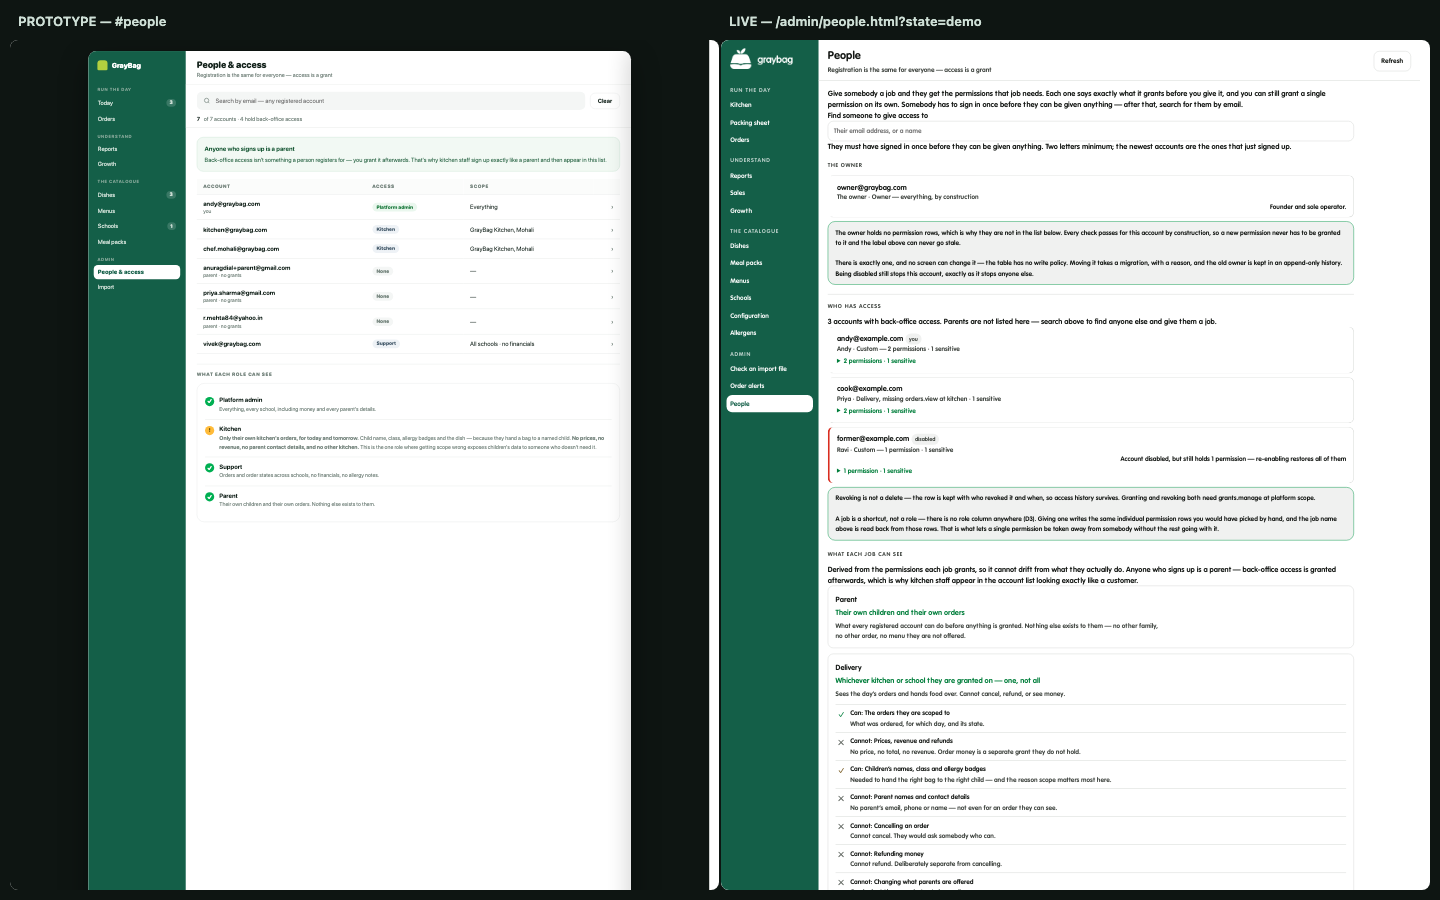
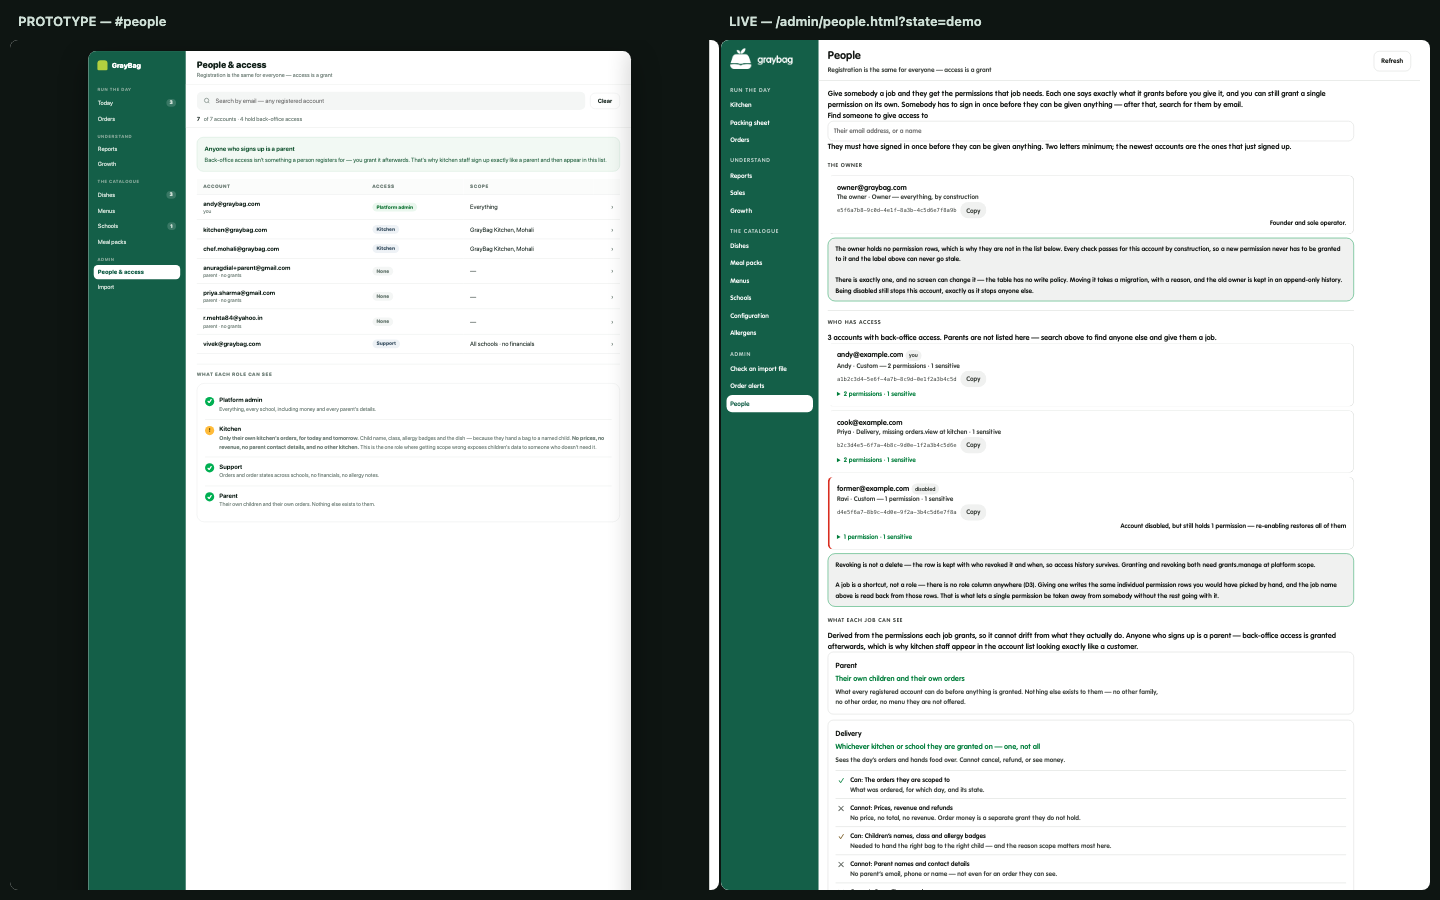
E10-73: the account id on /admin/people, with one-click copy
Andy repeats a SQL-editor lookup every time a parent emails him,
because PostHog identifies people by user id and deliberately never
receives an email. That id is the join between "a parent emailed me"
and "here is what they did".

The part that mattered was where it goes. /admin/people lists accounts
that hold a grant, and a parent holds none — so the id on those rows
alone would never once have answered the question that prompted this.
searchAccounts reads every app_user, which is the path to a parent, and
it renders through the same accountRow; the copy handler is bound to
the search container as well as the list.

Shown in full, monospace, muted. A shortened id beside a button that
copies the whole thing is a trap the first time somebody reads one off
the screen instead. A clipboard refusal selects the id and says so
rather than failing silently — a copy button that quietly does nothing
means pasting the previous clipboard contents into PostHog and reading
the wrong person's session.

No new disclosure: app_user.id is the pseudonymous identifier analytics
is allowed to hold precisely because it carries no name, no email and
no child, and it now sits next to an email this screen already showed.
Nothing else was added.

The fixture's u-1 ids became real-shaped uuids. A 36-character value is
a different layout problem from a three-character stub, and the a11y
gate and the parity shot both walk that data.

And the coupling this rests on is now tested. app_user.id equals
[…]

Changed region(s): [[0.5625, 0.2178, 0.9375, 0.9956]]

diff --git a/planning/backlog.html b/planning/backlog.html
@@ -4347,13 +4347,13 @@
         </div>
         <div class="meter-wrap">
           <div class="meter"><span style="width:0%"></span></div>
-          <span class="meter-num">0/63</span>
+          <span class="meter-num">0/64</span>
         </div>
       </header>
       <p class="summary">The backend Andy needs to run the business — school onboarding, menu management, config, users, money.</p>
       <p class="deps">Depends on <code>E02</code> <code>E04</code> <code>E07</code></p>
       <details>
-        <summary>Context &amp; 63 tasks</summary>
+        <summary>Context &amp; 64 tasks</summary>
         <div class="context"></div>
         <ul class="tasks">
       <li class="task" data-id="E10-01" data-seed="1" data-risk="" data-owner="build" data-mvp="1" data-seed="1">
@@ -4859,6 +4859,14 @@
         
         <span class="badge r-later">later</span>
         <span class="ttext"><strong><code>/admin/people</code> rows open a drawer, as the prototype has them.</strong> <code>E10-71</code> used a <code>&lt;details&gt;</code> because the timing was wrong for anything else — the drawer means moving the revoke buttons and the job form into it, re-binding their handlers and re-rendering after every write, on the one screen where a bug is an authorisation bug. Worth doing when there is not a rollout on</span>
+      </li>
+      <li class="task" data-id="E10-73" data-seed="1" data-risk="" data-owner="build" data-mvp="0" data-seed="1">
+        <button class="box" role="checkbox" aria-checked="false" aria-label="Toggle E10-73"></button>
+        <code class="tid">E10-73</code>
+        
+        
+        <span class="badge r-later">later</span>
+        <span class="ttext"><strong>The account id on <code>/admin/people</code>, with one-click copy.</strong> Andy: *&quot;to see what a specific parent did in PostHog, I have to open the Supabase SQL editor and run <code>select id from app_user where email = …</code>, because PostHog identifies people by user id and deliberately never receives an email. That id is the join between &#39;a parent emailed me&#39; and &#39;here&#39;s what they actually did&#39;, and it&#39;s the step I repeat every time.&quot;* <strong>The part that mattered was where it goes.</strong> <code>/admin/people</code> lists accounts that hold a <strong>grant</strong>, and a parent holds none — so putting the id on those rows alone would never once have answered the question that prompted this. <code>searchAccounts</code> reads every <code>app_user</code>, which is the path to a parent, and it renders through the same <code>accountRow</code>, so one change covers both; the copy handler is bound to the search container as well as the list. Shown in <strong>full</strong>, monospace, muted: a shortened id beside a button that copies the whole thing is a trap the first time somebody reads one off the screen. A clipboard refusal <strong>selects the id and says so</strong> rather than failing silently — a copy button that quietly does nothing means pasting the previous clipboard contents into PostHog and reading the wrong person&#39;s session. <strong>No new disclosure</strong>: <code>app_user.id</code> is the pseudonymous identifier analytics is allowed to hold precisely because it carries no name, no email and no child, and it now sits beside an email this screen already showed. Nothing else was added — no child, no order, no financial detail. The fixture&#39;s <code>u-1</code> ids became real-shaped uuids, because a 36-character value is a different layout problem from a three-character stub and the a11y gate and parity shot both walk that data. <strong>The coupling is now tested</strong>: <code>app_user.id</code> equals <code>auth.users.id</code> by construction (<code>0001</code>&#39;s FK, <code>0018</code>&#39;s trigger; 18 of 18 on production), and the mobile app identifies to PostHog with that same value — if <code>app_user</code> ever grows its own uuid the screen would keep showing an id that matches nothing, and <code>scripts/test/account-id-is-the-analytics-id.test.mjs</code> fails instead</span>
       </li></ul>
       </details>
     </article>

diff --git a/apps/web/src/lib/admin/people-fixture.ts b/apps/web/src/lib/admin/people-fixture.ts
@@ -9,6 +9,15 @@
  */
 import type { api } from '@graybag/shared';
 
+/*
+ * The ids are **real-shaped uuids**, not `u-1` — `E10-73`.
+ *
+ * `app_user.id` is now rendered on this screen, and a 36-character uuid is a different layout
+ * problem from a three-character stub: it wraps, it competes with the email, and a fixture that
+ * hides that is a fixture the screen gets designed against. Same rule this file already follows
+ * about demonstrating states production can actually produce. The a11y gate and the parity shot
+ * both walk this data.
+ */
 export const PEOPLE_FIXTURE: {
   accounts: api.AccessAccount[];
   permissions: api.PermissionInfo[];
@@ -22,7 +31,7 @@ export const PEOPLE_FIXTURE: {
 } = {
   accounts: [
     {
-      userId: 'u-1', email: 'andy@example.com', displayName: 'Andy', isDisabled: false,
+      userId: 'a1b2c3d4-5e6f-4a7b-8c9d-0e1f2a3b4c5d', email: 'andy@example.com', displayName: 'Andy', isDisabled: false,
       held: [
         {
           grantId: 'g-1', permissionCode: 'config.platform_edit', displayName: 'Edit platform config',
@@ -37,7 +46,7 @@ export const PEOPLE_FIXTURE: {
       ],
     },
     {
-      userId: 'u-2', email: 'cook@example.com', displayName: 'Priya', isDisabled: false,
+      userId: 'b2c3d4e5-6f7a-4b8c-9d0e-1f2a3b4c5d6e', email: 'cook@example.com', displayName: 'Priya', isDisabled: false,
       held: [
         {
           grantId: 'g-3', permissionCode: 'orders.mark_delivered', displayName: 'Mark delivered',
@@ -55,10 +64,10 @@ export const PEOPLE_FIXTURE: {
     },
     // Signed in, holds nothing. The state everybody starts in, and the reason this list is not
     // filtered to privileged accounts — there would be no way to reach the person being onboarded.
-    { userId: 'u-3', email: 'newcook@example.com', displayName: '', isDisabled: false, held: [] },
+    { userId: 'c3d4e5f6-7a8b-4c9d-8e1f-2a3b4c5d6e7f', email: 'newcook@example.com', displayName: '', isDisabled: false, held: [] },
     // Disabled and still holding access. Easy to miss, and the thing an audit is looking for.
     {
-      userId: 'u-4', email: 'former@example.com', displayName: 'Ravi', isDisabled: true,
+      userId: 'd4e5f6a7-8b9c-4d0e-9f2a-3b4c5d6e7f8a', email: 'former@example.com', displayName: 'Ravi', isDisabled: true,
       held: [
         {
           grantId: 'g-5', permissionCode: 'orders.refund', displayName: 'Refund orders',
@@ -92,7 +101,7 @@ export const PEOPLE_FIXTURE: {
   ],
 
   owner: {
-    userId: 'u-owner',
+    userId: 'e5f6a7b8-9c0d-4e1f-8a3b-4c5d6e7f8a9b',
     email: 'owner@graybag.com',
     displayName: 'The owner',
     isDisabled: false,

diff --git a/apps/web/src/styles/backoffice.css b/apps/web/src/styles/backoffice.css
@@ -1301,6 +1301,24 @@
  * readable without opening anything. Styled as a control rather than as text because a disclosure
  * that does not look pressable is one people scroll past.
  */
+/*
+ * An account id, next to the email — `E10-73`.
+ *
+ * Monospace and full length: this value is read, compared and pasted, and a proportional font
+ * makes `l` and `1` the same shape in a string where that matters. Muted, because it is a key
+ * rather than a fact about the person — it should be findable without competing with their name.
+ */
+.bo .acctid { display: inline-flex; align-items: center; gap: var(--gb-space-2); }
+.bo .acctid__value {
+  /* The same stack `code` uses above. There is no mono token — `check:css-tokens` caught me
+   * inventing one, which is exactly the typo it exists to refuse. */
+  font-family: ui-monospace, SFMono-Regular, Menlo, monospace;
+  font-size: var(--gb-font-size-caption);
+  color: var(--gb-text-secondary);
+  user-select: all;
+}
+.bo .acctid__copy { padding-block: 2px; }
+
 .bo .srow__detail > summary {
   cursor: pointer;
   font-size: var(--gb-font-size-body-sm);

diff --git a/planning/backlog/E10-admin-dashboard.md b/planning/backlog/E10-admin-dashboard.md
@@ -73,3 +73,4 @@ summary: The backend Andy needs to run the business — school onboarding, menu 
 - [x] `E10-70` **`/orders` had no filters, no export, and was not in the a11y sweep.** The prototype's Orders carries a school filter, a status filter and an Export CSV; this screen had none of the three, which is readable at three schools and a wall at ten — and the question somebody actually arrives with is *"what did Amity take today"* or *"which orders were cancelled"*. Chips are **built from the day's own orders**, so a school with nothing today does not offer a filter whose only possible result is an empty page, and each dimension counts against the other filter in force so the numbers match what pressing it would show. Filters live in the **URL**, because a filtered day is a thing somebody sends to somebody else and Refresh is this page's most-used button. **Filtering is client-side**: the day is already in memory, and a round trip to narrow a list you are holding is a round trip on a school-gate connection for no new information. The CSV is built from the rows on screen, filters included — Andy endorsed that on Reports and the reason is stronger here, since a second read would export a different set from the one being looked at. `"Nobody ordered on this day"` and `"No orders match these filters"` are now different empty states with different actions. Also **added to `check:a11y`**, which had never audited it: absent for the same reason `parity-shot` could not photograph it, and that pairing is how it reached production unstyled. Deliberately **not** imported from the prototype: `Mark all delivered`, and grouping by class or dish. Those are `/kitchen`'s, and the prototype has no kitchen screen to put them on — duplicating a write path onto the money view is what `D3` and `E10-08` argue against
 - [x] `E10-71` **Schools and People, made scannable at more than three of anything.** Both screens rendered everything open: `/admin/schools` stacked every school on one page and `/admin/people` expanded every account's grant list, revoke buttons and job form. Fine at three schools and seven accounts, a wall at thirty of either, and the answer to *"is Amity ready"* was somewhere in a scroll. **Schools** now picks one school at a time behind a chip picker, and the chips carry the blocker count so the estate is still readable without scrolling — it defaults to **the first school that is not live**, not the first alphabetically, because this screen exists to find what is stopping a school trading and opening on a healthy one makes you do that job yourself. The choice is in the URL, so "look at Gem" is a link. It also gains a read-only **"changed elsewhere"** block naming meal packs and configuration with links: the prototype puts a packs toggle and an editable config on this page, and both are controls that already exist behind different permissions — a second copy here is a second write path that drifts, which is `D3`'s and `E10-08`'s argument again. The **information** was the real gap, not the control. **People** collapses each account's detail behind a `<details>` whose summary carries the permission count. Deliberately not the prototype's drawer: this is the screen that grants and revokes authorisation and Amity begins rolling out to parents tomorrow, so the change keeps the same DOM, the same delegated handlers and the same write paths. Nothing about granting changed
 - [ ] `E10-72` **`/admin/people` rows open a drawer, as the prototype has them.** `E10-71` used a `<details>` because the timing was wrong for anything else — the drawer means moving the revoke buttons and the job form into it, re-binding their handlers and re-rendering after every write, on the one screen where a bug is an authorisation bug. Worth doing when there is not a rollout on
+- [x] `E10-73` **The account id on `/admin/people`, with one-click copy.** Andy: *"to see what a specific parent did in PostHog, I have to open the Supabase SQL editor and run `select id from app_user where email = …`, because PostHog identifies people by user id and deliberately never receives an email. That id is the join between 'a parent emailed me' and 'here's what they actually did', and it's the step I repeat every time."* **The part that mattered was where it goes.** `/admin/people` lists accounts that hold a **grant**, and a parent holds none — so putting the id on those rows alone would never once have answered the question that prompted this. `searchAccounts` reads every `app_user`, which is the path to a parent, and it renders through the same `accountRow`, so one change covers both; the copy handler is bound to the search container as well as the list. Shown in **full**, monospace, muted: a shortened id beside a button that copies the whole thing is a trap the first time somebody reads one off the screen. A clipboard refusal **selects the id and says so** rather than failing silently — a copy button that quietly does nothing means pasting the previous clipboard contents into PostHog and reading the wrong person's session. **No new disclosure**: `app_user.id` is the pseudonymous identifier analytics is allowed to hold precisely because it carries no name, no email and no child, and it now sits beside an email this screen already showed. Nothing else was added — no child, no order, no financial detail. The fixture's `u-1` ids became real-shaped uuids, because a 36-character value is a different layout problem from a three-character stub and the a11y gate and parity shot both walk that data. **The coupling is now tested**: `app_user.id` equals `auth.users.id` by construction (`0001`'s FK, `0018`'s trigger; 18 of 18 on production), and the mobile app identifies to PostHog with that same value — if `app_user` ever grows its own uuid the screen would keep showing an id that matches nothing, and `scripts/test/account-id-is-the-analytics-id.test.mjs` fails instead

diff --git a/docs/from-andy.md b/docs/from-andy.md
@@ -1,0 +1,27 @@
+# From Andy — the inbox
+
+Andy writes requests here rather than pasting them into your terminal. **Read this file at the
+start of every task.** Anything unticked is for you.
+
+When you complete an item, tick it and leave it — don't delete it, so the history of what was
+asked stays readable. If an item isn't yours, leave it for the other thread.
+
+---
+
+## Open
+
+- [ ] **Show the account id on `/admin/people`.**
+      Right now, to look up what a specific parent did in PostHog, I have to open the Supabase
+      SQL editor and run `select id from app_user where email = …`, because PostHog identifies
+      people by their user id and deliberately never receives an email.
+
+      Put the account's id on the People screen — in the row or in the detail — with a way to
+      copy it in one click. It's the join between "a parent emailed me" and "here is what they
+      actually did", and it's the step I repeat every time.
+
+      Small, and it is not a licence to show anything else: no child, no order, no financial
+      detail on that screen that isn't already there.
+
+## Done
+
+_(tick items here as you finish them)_
